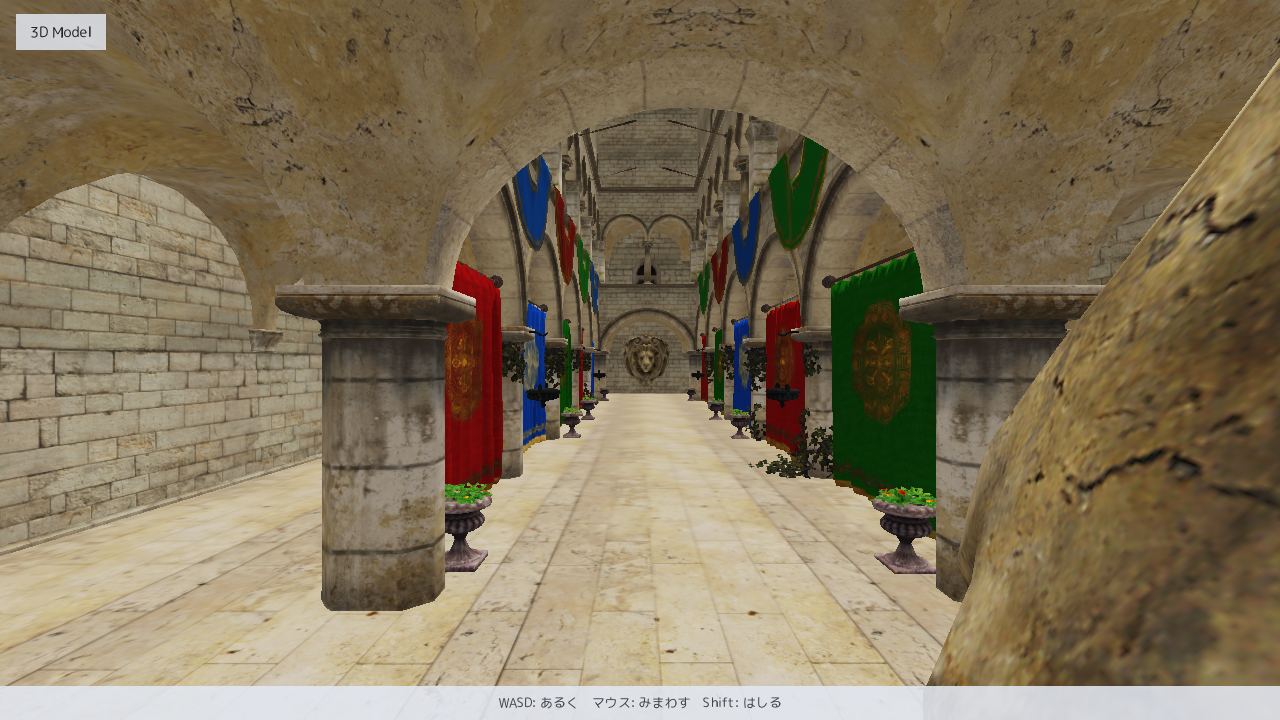
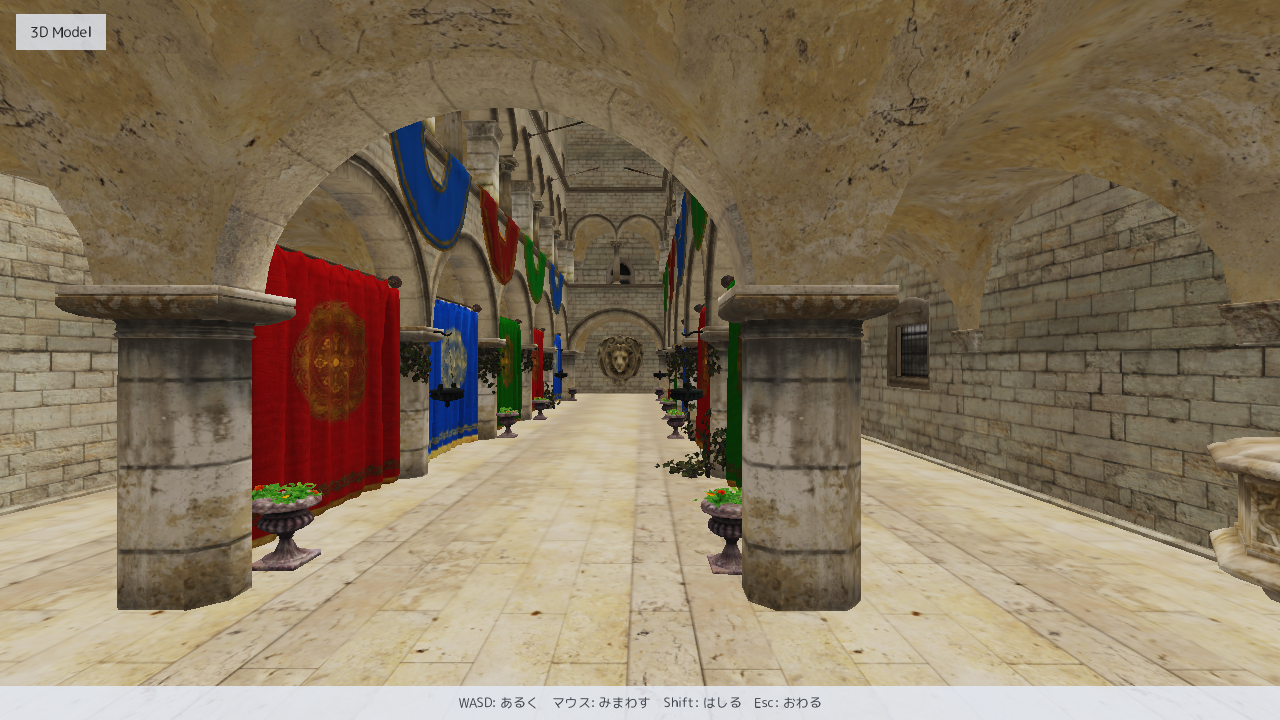
chore(release): snapshot v0.26.1

diff --git a/docs/samples.html b/docs/samples.html
@@ -2575,7 +2575,7 @@ static <span class="k">void</span> flash(<span class="k">const</span> <span clas
           <figure><img src="assets/examples/model3d.png" alt="3D モデルのサンプルの実行画面" loading="lazy"><figcaption>実行画面（<code>examples/model3d</code>）。26 万ポリゴンの宮殿を一人称で歩き回る。</figcaption></figure>
           <p>大きな 3D モデル (.clod 形式) を <code>drawModel</code> 1 行で置き、その中を一人称で歩きます。舞台は実在の標準シーン Crytek Sponza (26 万ポリゴン)。マウスで見回し (カーソルは <code>hud.lockMouse</code> でロック)、WASD で歩き、Shift で走ります。詳細度 (LOD) は距離から GPU 上で自動で決まります。</p>
           <p class="note"><strong>使う道具:</strong> <code>drawModel</code> / <code>camera3D</code> / <code>hud.lockMouse</code> / <code>in.mouseDeltaX</code> / <code>in.move</code></p>
-          <p class="codelabel"><code>examples/model3d/model3d_dll.cpp</code> ── 全 74 行。<code>mitiru new</code> で作るプロジェクトの <code>src/main.cpp</code> をこれ 1 つに置き換えれば、そのまま <code>mitiru run</code> で動きます。<a href="https://github.com/mogmog-0110/MitiruEngine/tree/main/examples/model3d" target="_blank" rel="noopener">GitHub &#8599;</a></p>
+          <p class="codelabel"><code>examples/model3d/model3d_dll.cpp</code> ── 全 77 行。<code>mitiru new</code> で作るプロジェクトの <code>src/main.cpp</code> をこれ 1 つに置き換えれば、そのまま <code>mitiru run</code> で動きます。<a href="https://github.com/mogmog-0110/MitiruEngine/tree/main/examples/model3d" target="_blank" rel="noopener">GitHub &#8599;</a></p>
 <pre class="fullsrc"><span class="c">// model3d — 大きな 3D モデル (.clod) の中を歩く</span>
 <span class="c">// 実行すると: 26 万ポリゴンの宮殿 (Sponza) を一人称で歩き回れる。マウスで見回し、WASD で移動</span>
 <span class="c">// 関連 API: drawModel / camera3D / hud.lockMouse / in.mouseDeltaX / skybox3D</span>
@@ -2602,11 +2602,13 @@ static <span class="k">void</span> flash(<span class="k">const</span> <span clas
 
 	<span class="k">void</span> update(<span class="t">Input</span> in, <span class="t">Hud</span> hud, <span class="k">float</span> dt)
 	{
+		<span class="k">if</span> (in.pressed(<span class="t">Key</span>::Escape)) { hud.quit(); }   <span class="c">// Esc で終わる</span>
+
 		hud.lockMouse();   <span class="c">// 毎フレーム宣言でカーソルをロック (FPS 視線)</span>
 
 		<span class="c">// マウスで見回す。上下は真上・真下の手前で止める</span>
 		<span class="k">constexpr</span> <span class="k">float</span> sens = 0.15f;   <span class="c">// 1px あたりの回転角 (度)</span>
-		yawDeg   += in.mouseDeltaX() * sens;
+		yawDeg   -= in.mouseDeltaX() * sens;
 		pitchDeg -= in.mouseDeltaY() * sens;
 		<span class="k">if</span> (pitchDeg &gt;  89.0f) { pitchDeg =  89.0f; }
 		<span class="k">if</span> (pitchDeg &lt; -89.0f) { pitchDeg = -89.0f; }
@@ -2614,10 +2616,11 @@ static <span class="k">void</span> flash(<span class="k">const</span> <span clas
 		<span class="c">// WASD で視線の向きへ歩く (in.move() が WASD/矢印/スティックを合成する)</span>
 		<span class="k">constexpr</span> <span class="k">float</span> kDeg = 3.14159265f / 180.0f;
 		<span class="k">const</span> <span class="k">float</span> fx = std::sin(yawDeg * kDeg), fz = std::cos(yawDeg * kDeg);
+		<span class="k">const</span> <span class="k">float</span> rx = -fz, rz = fx;   <span class="c">// 視線の右手方向</span>
 		<span class="k">const</span> <span class="t">Stick</span> m = in.move();
 		<span class="k">const</span> <span class="k">float</span> speed = in.down(<span class="t">Key</span>::Shift) ? 6.0f : 3.0f;   <span class="c">// m/s (Shift で走る)</span>
-		px += (fx * -m.y + fz * m.x) * speed * dt;
-		pz += (fz * -m.y - fx * m.x) * speed * dt;
+		px += (fx * -m.y + rx * m.x) * speed * dt;
+		pz += (fz * -m.y + rz * m.x) * speed * dt;
 
 		<span class="c">// 壁の外へ出ない範囲に収める (この章は当たり判定を持たない)</span>
 		<span class="k">if</span> (px &lt; -17.5f) { px = -17.5f; }
@@ -2644,7 +2647,7 @@ static <span class="k">void</span> flash(<span class="k">const</span> <span clas
 		s.drawModel(<span class="s">"model3d/assets/sponza/sponza.clod"</span>, {0.0f, 0.0f, 0.0f}, 0.0f, 0.01f);
 
 		chapterTitle(s, <span class="s">"3D Model"</span>);
-		chapterControls(s, <span class="s">"WASD: あるく　マウス: みまわす　Shift: はしる"</span>);
+		chapterControls(s, <span class="s">"WASD: あるく　マウス: みまわす　Shift: はしる　Esc: おわる"</span>);
 	}
 };
 

diff --git a/examples/model3d/model3d_dll.cpp b/examples/model3d/model3d_dll.cpp
@@ -24,11 +24,13 @@ struct Model3D
 
 	void update(Input in, Hud hud, float dt)
 	{
+		if (in.pressed(Key::Escape)) { hud.quit(); }   // Esc で終わる
+
 		hud.lockMouse();   // 毎フレーム宣言でカーソルをロック (FPS 視線)
 
 		// マウスで見回す。上下は真上・真下の手前で止める
 		constexpr float sens = 0.15f;   // 1px あたりの回転角 (度)
-		yawDeg   += in.mouseDeltaX() * sens;
+		yawDeg   -= in.mouseDeltaX() * sens;
 		pitchDeg -= in.mouseDeltaY() * sens;
 		if (pitchDeg >  89.0f) { pitchDeg =  89.0f; }
 		if (pitchDeg < -89.0f) { pitchDeg = -89.0f; }
@@ -36,10 +38,11 @@ struct Model3D
 		// WASD で視線の向きへ歩く (in.move() が WASD/矢印/スティックを合成する)
 		constexpr float kDeg = 3.14159265f / 180.0f;
 		const float fx = std::sin(yawDeg * kDeg), fz = std::cos(yawDeg * kDeg);
+		const float rx = -fz, rz = fx;   // 視線の右手方向
 		const Stick m = in.move();
 		const float speed = in.down(Key::Shift) ? 6.0f : 3.0f;   // m/s (Shift で走る)
-		px += (fx * -m.y + fz * m.x) * speed * dt;
-		pz += (fz * -m.y - fx * m.x) * speed * dt;
+		px += (fx * -m.y + rx * m.x) * speed * dt;
+		pz += (fz * -m.y + rz * m.x) * speed * dt;
 
 		// 壁の外へ出ない範囲に収める (この章は当たり判定を持たない)
 		if (px < -17.5f) { px = -17.5f; }
@@ -66,7 +69,7 @@ struct Model3D
 		s.drawModel("model3d/assets/sponza/sponza.clod", {0.0f, 0.0f, 0.0f}, 0.0f, 0.01f);
 
 		chapterTitle(s, "3D Model");
-		chapterControls(s, "WASD: あるく　マウス: みまわす　Shift: はしる");
+		chapterControls(s, "WASD: あるく　マウス: みまわす　Shift: はしる　Esc: おわる");
 	}
 };
 
